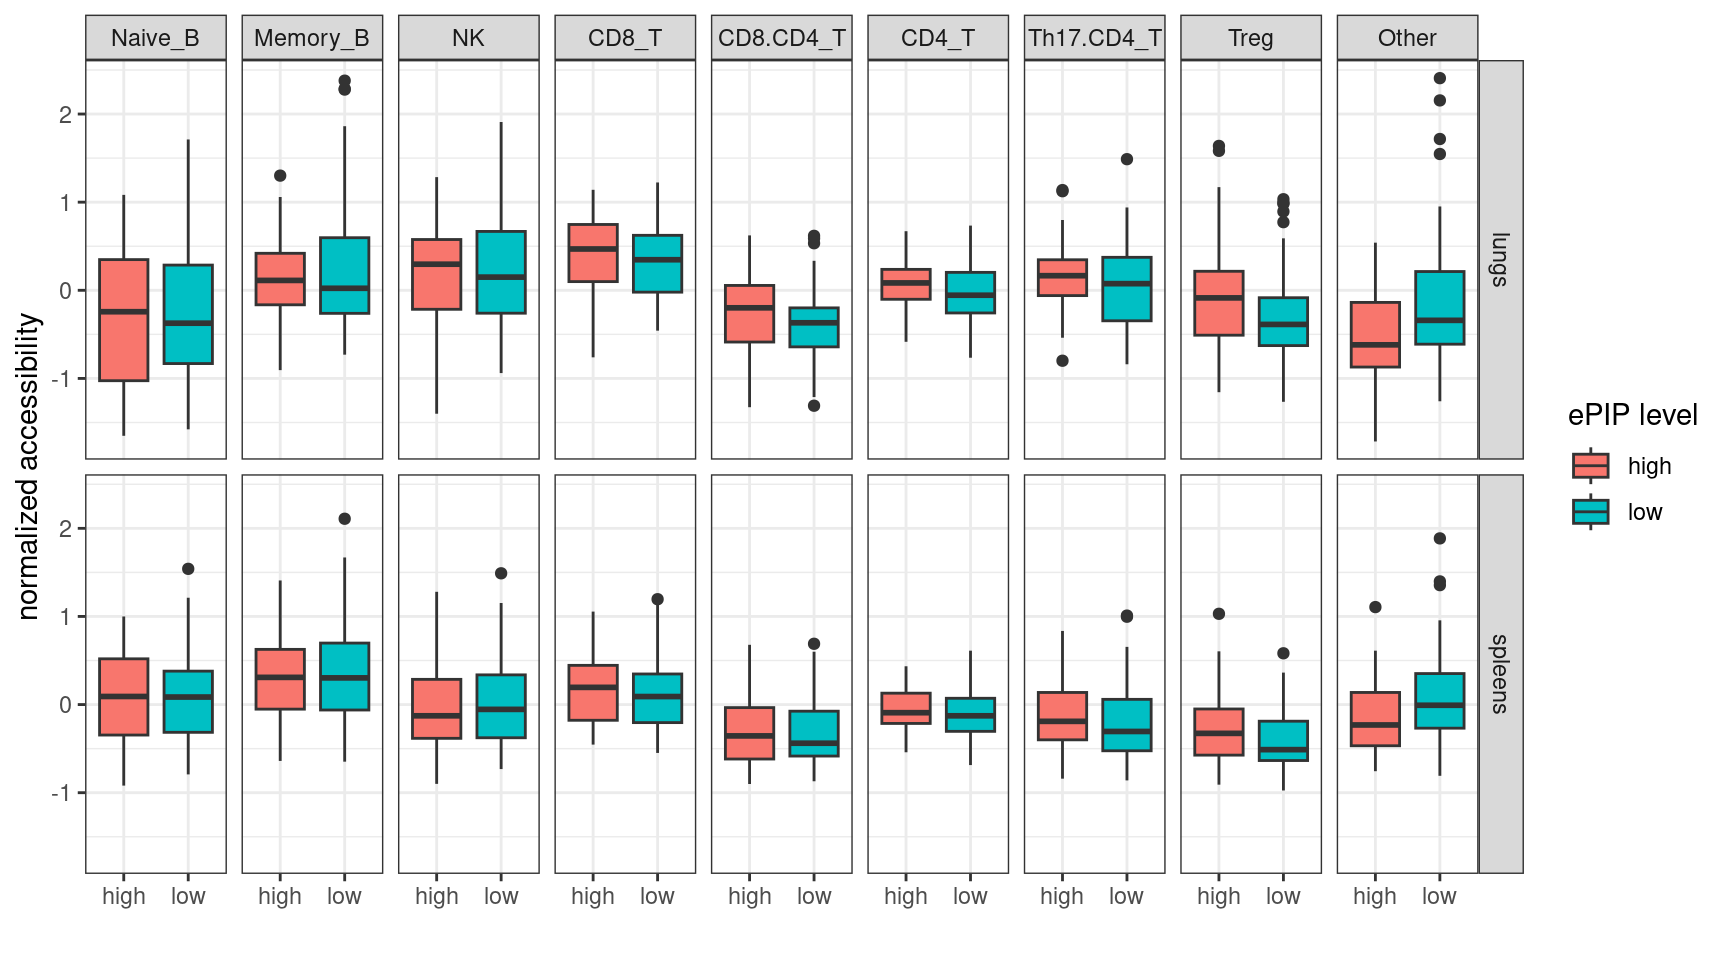
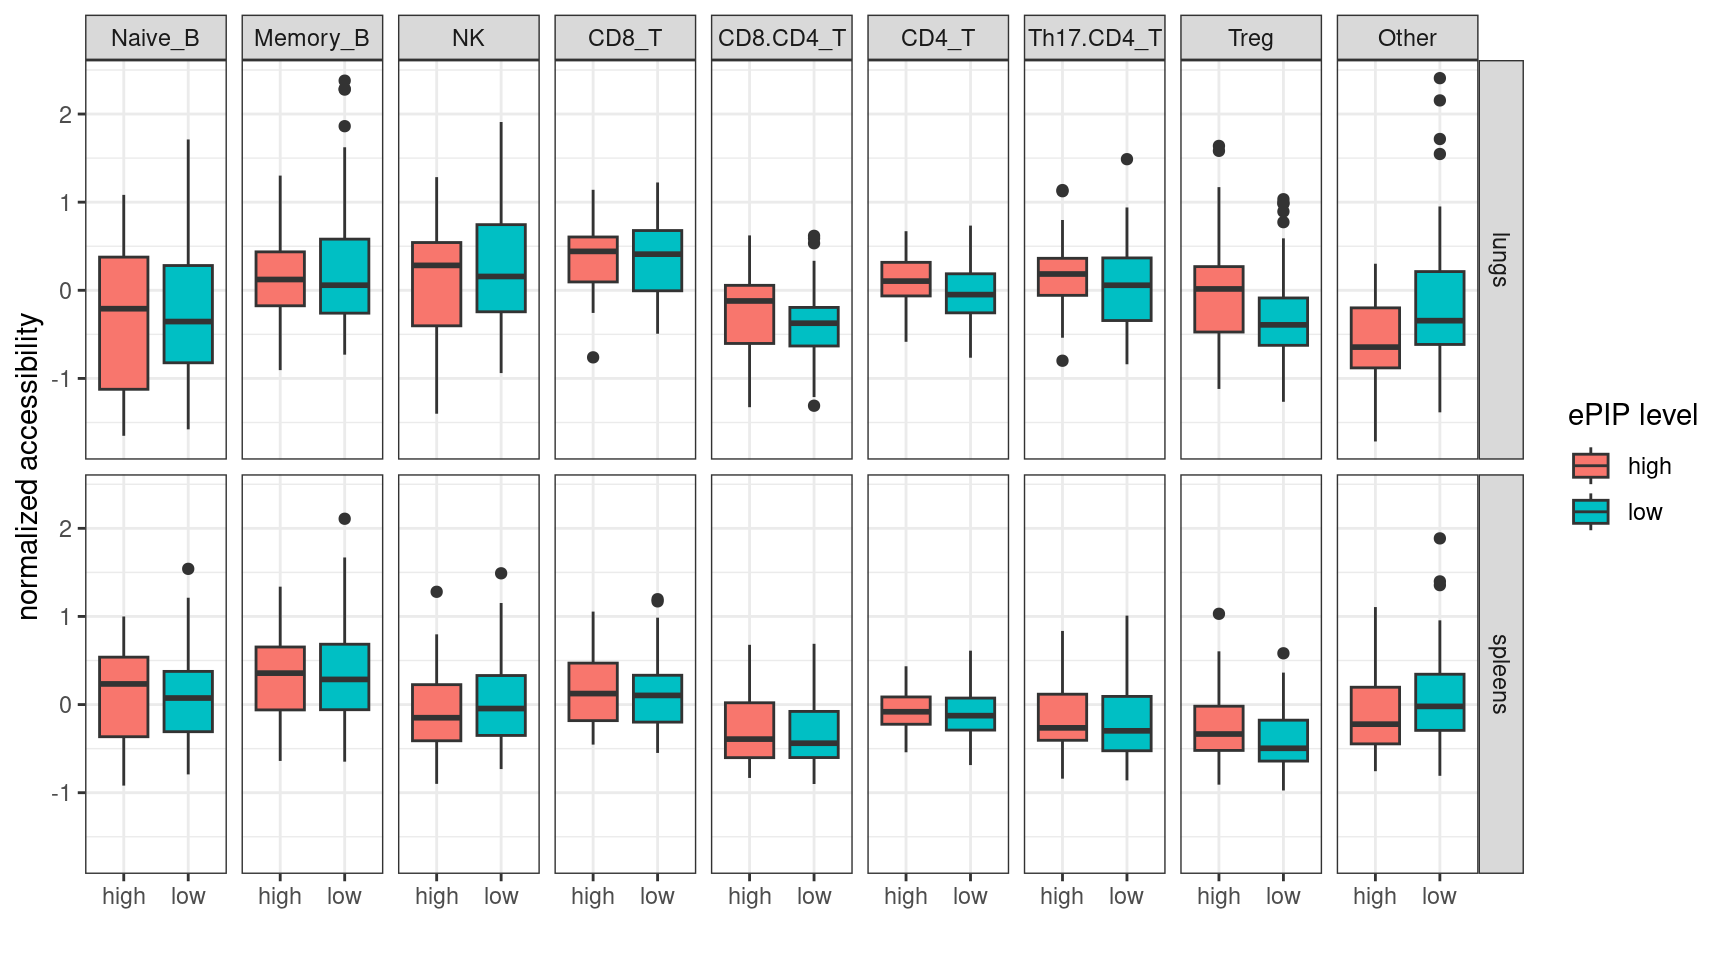
Build site.

diff --git a/docs/linking_lung_celltype_OCRs_with_asthma_genetics.html b/docs/linking_lung_celltype_OCRs_with_asthma_genetics.html
@@ -529,15 +529,15 @@ project makes it easier to run your code on other machines.</p>
 <div class="panel panel-default">
 <div class="panel-heading">
 <p class="panel-title">
-<a data-toggle="collapse" data-parent="#workflowr-checks" href="#strongRepositoryversionstrongahrefhttpsgithubcomj3gulunglymphscMultiomicstree06b50ece6cd6159f3676fa3c07852e686a2a2c35targetblank06b50eca">
+<a data-toggle="collapse" data-parent="#workflowr-checks" href="#strongRepositoryversionstrongahrefhttpsgithubcomj3gulunglymphscMultiomicstreeaccd1fae8ed58f65a4001d8693f30767c9d6755ctargetblankaccd1faa">
 <span class="glyphicon glyphicon-ok text-success"
 aria-hidden="true"></span> <strong>Repository version:</strong>
-<a href="https://github.com/j3gu/lung_lymph_scMultiomics/tree/06b50ece6cd6159f3676fa3c07852e686a2a2c35" target="_blank">06b50ec</a>
+<a href="https://github.com/j3gu/lung_lymph_scMultiomics/tree/accd1fae8ed58f65a4001d8693f30767c9d6755c" target="_blank">accd1fa</a>
 </a>
 </p>
 </div>
 <div
[2 lines of base64/hex data omitted]
 class="panel-collapse collapse">
 <div class="panel-body">
 <p>
@@ -547,7 +547,7 @@ reproducibility.
 </p>
 <p>
 The results in this page were generated with repository version
-<a href="https://github.com/j3gu/lung_lymph_scMultiomics/tree/06b50ece6cd6159f3676fa3c07852e686a2a2c35" target="_blank">06b50ec</a>.
+<a href="https://github.com/j3gu/lung_lymph_scMultiomics/tree/accd1fae8ed58f65a4001d8693f30767c9d6755c" target="_blank">accd1fa</a>.
 See the <em>Past versions</em> tab to see a history of the changes made
 to the R Markdown and HTML files.
 </p>
@@ -682,6 +682,40 @@ Message
 </tr>
 </thead>
 <tbody>
+<tr>
+<td>
+Rmd
+</td>
+<td>
+<a href="https://github.com/j3gu/lung_lymph_scMultiomics/blob/accd1fae8ed58f65a4001d8693f30767c9d6755c/analysis/linking_lung_celltype_OCRs_with_asthma_genetics.Rmd" target="_blank">accd1fa</a>
+</td>
+<td>
+Jing Gu
+</td>
+<td>
+2025-02-18
+</td>
+<td>
+cutoff set to be 0.5
+</td>
+</tr>
+<tr>
+<td>
+html
+</td>
+<td>
+<a href="https://rawcdn.githack.com/j3gu/lung_lymph_scMultiomics/aa9d85bea2df4c514a18def49c51e27bbba23bb5/docs/linking_lung_celltype_OCRs_with_asthma_genetics.html" target="_blank">aa9d85b</a>
+</td>
+<td>
+Jing Gu
+</td>
+<td>
+2025-02-18
+</td>
+<td>
+Build site.
+</td>
+</tr>
 <tr>
 <td>
 Rmd
@@ -833,7 +867,7 @@ functional data</li>
 </ul>
 <ol style="list-style-type: decimal">
 <li>Define asthma candidate enhancers by ePIPs <span
-class="math inline">\(\ge\)</span> 0.3</li>
+class="math inline">\(\ge\)</span> 0.5</li>
 </ol>
 <ul>
 <li>the selected cutoff shows strong enrichment with overlapping
@@ -855,22 +889,22 @@ OCRs</li>
 <div id="enrichment-test-for-enhancers-with-high-epips"
 class="section level2">
 <h2>Enrichment test for enhancers with high ePIPs</h2>
-<p>At a cutoff of 0.3 for ePIPs, enhancers with high ePIPs show
+<p>At a cutoff of 0.5 for ePIPs, enhancers with high ePIPs show
 significant enrichment for the overlapped OCRs.</p>
 <pre><code>               high_ePIP low_ePIP
-overlapped            31       77
-not_overlapped        10       73</code></pre>
+overlapped            27       81
+not_overlapped         8       75</code></pre>
 <pre><code>
     Fisher&#39;s Exact Test for Count Data
 
 data:  fisher_x
-p-value = 0.007228
+p-value = 0.007855
 alternative hypothesis: true odds ratio is not equal to 1
 95 percent confidence interval:
- 1.284247 7.180885
+ 1.273807 8.423933
 sample estimates:
 odds ratio 
-  2.923176 </code></pre>
+  3.107596 </code></pre>
 </div>
 <div id="size-distribution-for-ethans-list-of-enhancers"
 class="section level2">
@@ -898,6 +932,17 @@ Date
 </tr>
 </thead>
 <tbody>
+<tr>
+<td>
+<a href="https://github.com/j3gu/lung_lymph_scMultiomics/blob/aa9d85bea2df4c514a18def49c51e27bbba23bb5/docs/figure/linking_lung_celltype_OCRs_with_asthma_genetics.Rmd/unnamed-chunk-6-1.png" target="_blank">aa9d85b</a>
+</td>
+<td>
+Jing Gu
+</td>
+<td>
+2025-02-18
+</td>
+</tr>
 <tr>
 <td>
 <a href="https://github.com/j3gu/lung_lymph_scMultiomics/blob/b9acdaf064dee333c2065063a91dc90f72af2067/docs/figure/linking_lung_celltype_OCRs_with_asthma_genetics.Rmd/unnamed-chunk-6-1.png" target="_blank">b9acdaf</a>
@@ -957,6 +1002,17 @@ Date
 <tbody>
 <tr>
 <td>
+<a href="https://github.com/j3gu/lung_lymph_scMultiomics/blob/aa9d85bea2df4c514a18def49c51e27bbba23bb5/docs/figure/linking_lung_celltype_OCRs_with_asthma_genetics.Rmd/unnamed-chunk-8-1.png" target="_blank">aa9d85b</a>
+</td>
+<td>
+Jing Gu
+</td>
+<td>
+2025-02-18
+</td>
+</tr>
+<tr>
+<td>
 <a href="https://github.com/j3gu/lung_lymph_scMultiomics/blob/b9acdaf064dee333c2065063a91dc90f72af2067/docs/figure/linking_lung_celltype_OCRs_with_asthma_genetics.Rmd/unnamed-chunk-8-1.png" target="_blank">b9acdaf</a>
 </td>
 <td>
@@ -1011,6 +1067,17 @@ Date
 </tr>
 </thead>
 <tbody>
+<tr>
+<td>
+<a href="https://github.com/j3gu/lung_lymph_scMultiomics/blob/aa9d85bea2df4c514a18def49c51e27bbba23bb5/docs/figure/linking_lung_celltype_OCRs_with_asthma_genetics.Rmd/unnamed-chunk-12-1.png" target="_blank">aa9d85b</a>
+</td>
+<td>
+Jing Gu
+</td>
+<td>
+2025-02-18
+</td>
+</tr>
 <tr>
 <td>
 <a href="https://github.com/j3gu/lung_lymph_scMultiomics/blob/b9acdaf064dee333c2065063a91dc90f72af2067/docs/figure/linking_lung_celltype_OCRs_with_asthma_genetics.Rmd/unnamed-chunk-12-1.png" target="_blank">b9acdaf</a>
@@ -1077,6 +1144,17 @@ Date
 <tbody>
 <tr>
 <td>
+<a href="https://github.com/j3gu/lung_lymph_scMultiomics/blob/aa9d85bea2df4c514a18def49c51e27bbba23bb5/docs/figure/linking_lung_celltype_OCRs_with_asthma_genetics.Rmd/unnamed-chunk-16-1.png" target="_blank">aa9d85b</a>
+</td>
+<td>
+Jing Gu
+</td>
+<td>
+2025-02-18
+</td>
+</tr>
+<tr>
+<td>
 <a href="https://github.com/j3gu/lung_lymph_scMultiomics/blob/b9acdaf064dee333c2065063a91dc90f72af2067/docs/figure/linking_lung_celltype_OCRs_with_asthma_genetics.Rmd/unnamed-chunk-16-1.png" target="_blank">b9acdaf</a>
 </td>
 <td>
@@ -1141,6 +1219,17 @@ Date
 </tr>
 </thead>
 <tbody>
+<tr>
+<td>
+<a href="https://github.com/j3gu/lung_lymph_scMultiomics/blob/aa9d85bea2df4c514a18def49c51e27bbba23bb5/docs/figure/linking_lung_celltype_OCRs_with_asthma_genetics.Rmd/unnamed-chunk-20-1.png" target="_blank">aa9d85b</a>
+</td>
+<td>
+Jing Gu
+</td>
+<td>
+2025-02-18
+</td>
+</tr>
 <tr>
 <td>
 <a href="https://github.com/j3gu/lung_lymph_scMultiomics/blob/b9acdaf064dee333c2065063a91dc90f72af2067/docs/figure/linking_lung_celltype_OCRs_with_asthma_genetics.Rmd/unnamed-chunk-20-1.png" target="_blank">b9acdaf</a>
